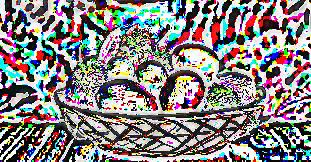
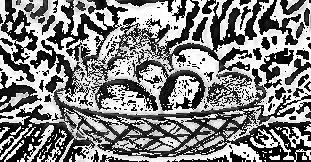
Question 3 works to an extent

diff --git a/assignment1/q3/qst3.py b/assignment1/q3/qst3.py
@@ -9,12 +9,20 @@ def read_image(image):
 
 def save_image(image, path):
     output = Image.fromarray(image)
-    output.save(f'assignment1/q3/{path}')
-    
-img = cv2.imread('assignment1/q3/fruits.jpeg')
-blurImg = cv2.blur(img,(10,10))
+    output.save(f'{path}')
 
-img = read_image(img)
+### img = Image.open('/home/madhia/computer_vision/assignment1/q3/fruits.jpeg')    
+
+img = cv2.imread('fruits.jpeg')
+gray = cv2.cvtColor(img, cv2.COLOR_BGR2RGB)
+
+### Grayscale
+gr_img = cv2.cvtColor(img, cv2.COLOR_BGR2GRAY)
+save_image(gr_img, 'gr.jpeg')
+
+blurImg = cv2.blur(gr_img,(10,10))
+
+img = read_image(gr_img)
 print(img)
 blurImg = read_image(blurImg)
 print(blurImg)
